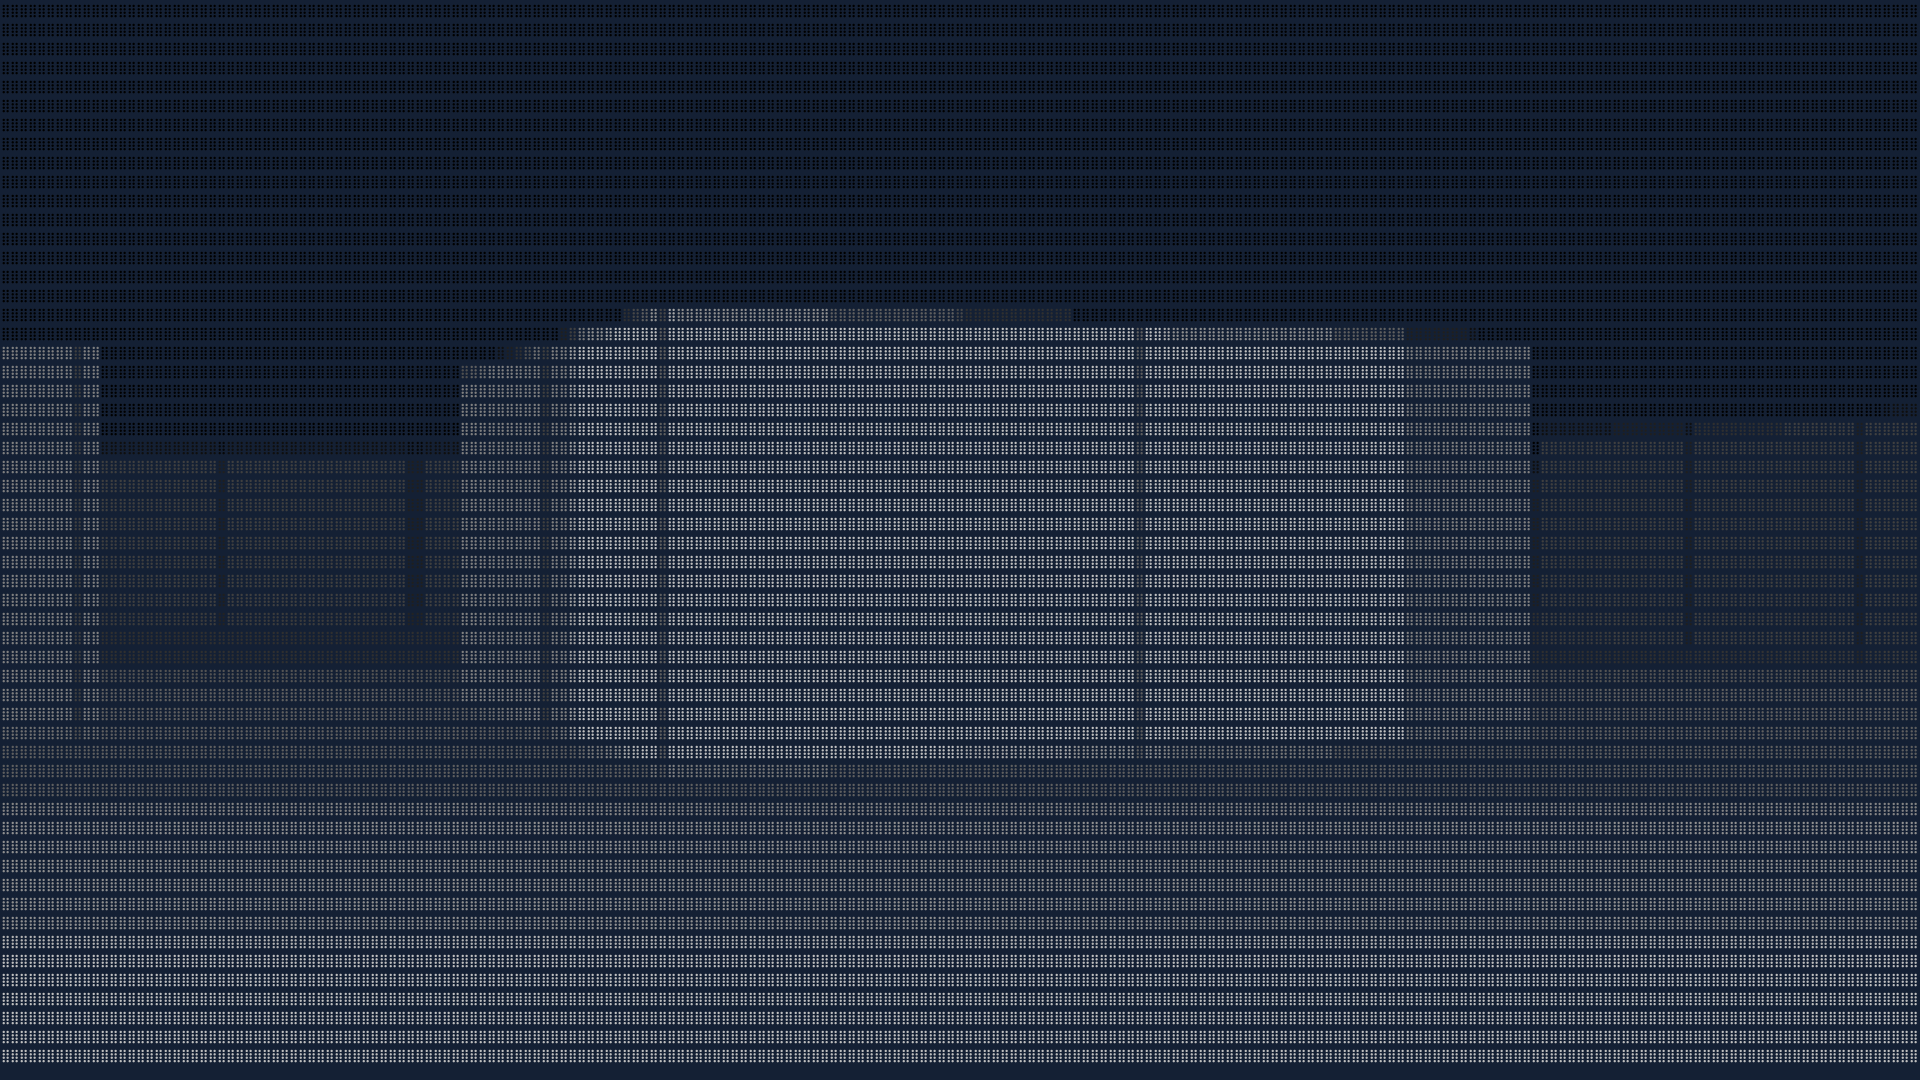
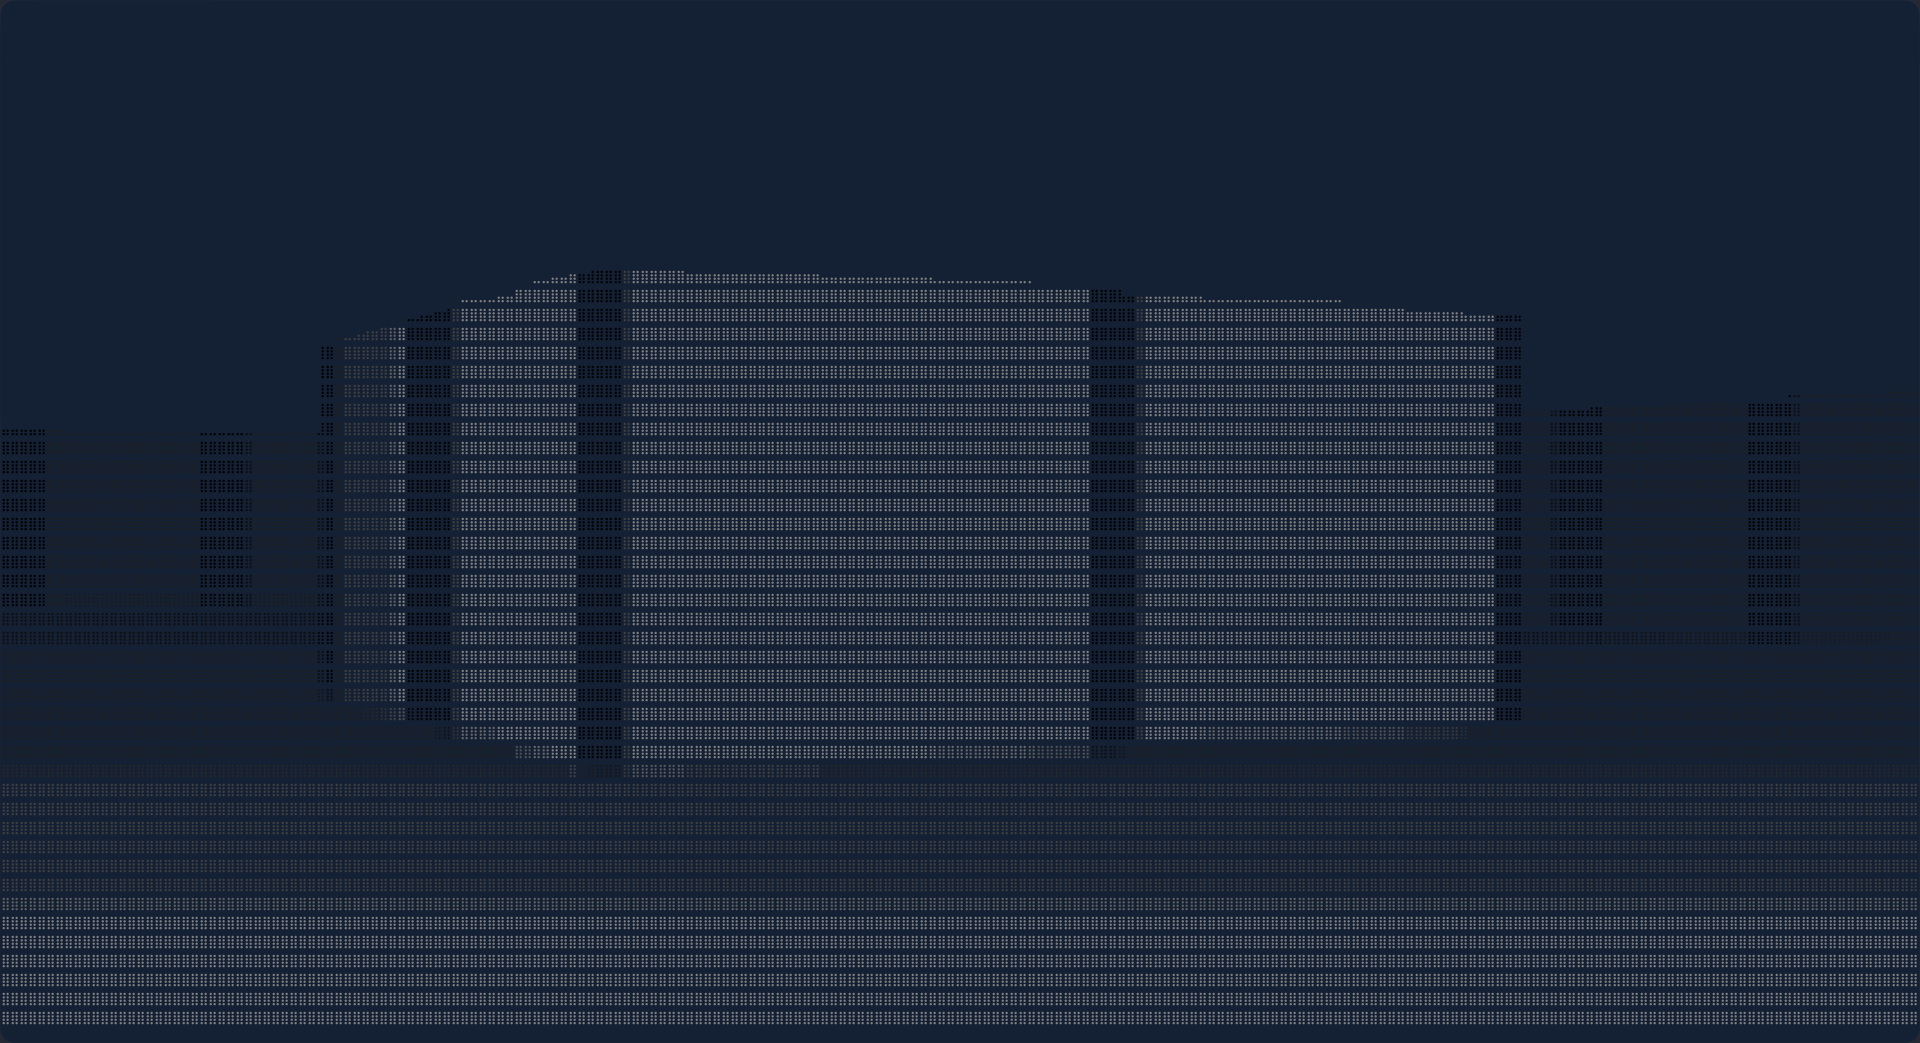
Ported functions to use colour

Changed region(s): [[0.0, 0.0, 1.0, 0.9818]]

diff --git a/src/line.c b/src/line.c
@@ -38,7 +38,7 @@ void pluto_swap(int *a, int *b)
     *b = temp;
 }
 float pluto_abs(float i) { return (i < 0) ? -i : i; }
-void pluto_draw_aa_line(pt_t p0, pt_t p1)
+void pluto_draw_aa_line(pt_t p0, pt_t p1, pluto_colour_t colour)
 {
     int steep = pluto_abs(p1.y - p0.y) > pluto_abs(p1.x - p0.x);
 
@@ -67,8 +67,8 @@ void pluto_draw_aa_line(pt_t p0, pt_t p1)
         int x;
         for (x = xpxl0; x <= xpxl1; x++)
         {
-            pluto_set_pix((int)intersect_y, x);
-            pluto_set_pix((int)intersect_y - 1, x);
+            pluto_set_cpix((int)intersect_y, x, colour.r, colour.g, colour.b);
+            pluto_set_cpix((int)intersect_y - 1, x, colour.r, colour.g, colour.b);
             intersect_y += gradient;
         }
     }
@@ -77,18 +77,18 @@ void pluto_draw_aa_line(pt_t p0, pt_t p1)
         int x;
         for (x = xpxl0; x <= xpxl1; x++)
         {
-            pluto_set_pix(x, (int)intersect_y);
-            pluto_set_pix(x, (int)intersect_y - 1);
+            pluto_set_cpix(x, (int)intersect_y, colour.r, colour.g, colour.b);
+            pluto_set_cpix(x, (int)intersect_y - 1, colour.r, colour.g, colour.b);
             intersect_y += gradient;
         }
     }
 }
 
-void pluto_draw_line(pt_t p0, pt_t p1)
+void pluto_draw_line(pt_t p0, pt_t p1, pluto_colour_t colour)
 {
     if (_pluto_canvas.antialias)
     {
-        pluto_draw_aa_line(p0, p1);
+        pluto_draw_aa_line(p0, p1, colour);
         return;
     }
 
@@ -98,7 +98,7 @@ void pluto_draw_line(pt_t p0, pt_t p1)
 
     for (;;)
     {
-        pluto_set_pix(p0.x, p0.y);
+        pluto_set_cpix(p0.x, p0.y, colour.r, colour.g, colour.b);
 
         if (p0.x == p1.x && p0.y == p1.y)
             break;
@@ -119,14 +119,14 @@ void pluto_draw_line(pt_t p0, pt_t p1)
     }
 }
 
-void pluto_draw_ellipse(pt_t p0, int a, int b)
+void pluto_draw_ellipse(pt_t p0, int a, int b, pluto_colour_t colour)
 {
     int wx, wy, t;
     int asq = a * a, bsq = b * b;
     int xa, ya;
 
-    pluto_set_pix(p0.x, p0.y + b);
-    pluto_set_pix(p0.x, p0.y - b);
+    pluto_set_cpix(p0.x, p0.y + b, colour.r, colour.g, colour.b);
+    pluto_set_cpix(p0.x, p0.y - b, colour.r, colour.g, colour.b);
 
     wx = 0;
     wy = b;
@@ -151,14 +151,14 @@ void pluto_draw_ellipse(pt_t p0, int a, int b)
         if (xa >= ya)
             break;
 
-        pluto_set_pix(p0.x + wx, p0.y - wy);
-        pluto_set_pix(p0.x - wx, p0.y - wy);
-        pluto_set_pix(p0.x + wx, p0.y + wy);
-        pluto_set_pix(p0.x - wx, p0.y + wy);
+        pluto_set_cpix(p0.x + wx, p0.y - wy, colour.r, colour.g, colour.b);
+        pluto_set_cpix(p0.x - wx, p0.y - wy, colour.r, colour.g, colour.b);
+        pluto_set_cpix(p0.x + wx, p0.y + wy, colour.r, colour.g, colour.b);
+        pluto_set_cpix(p0.x - wx, p0.y + wy, colour.r, colour.g, colour.b);
     }
 
-    pluto_set_pix(p0.x + a, p0.y);
-    pluto_set_pix(p0.x - a, p0.y);
+    pluto_set_cpix(p0.x + a, p0.y, colour.r, colour.g, colour.b);
+    pluto_set_cpix(p0.x - a, p0.y, colour.r, colour.g, colour.b);
 
     wx = a;
     wy = 0;
@@ -184,9 +184,9 @@ void pluto_draw_ellipse(pt_t p0, int a, int b)
         if (ya > xa)
             break;
 
-        pluto_set_pix(p0.x + wx, p0.y - wy);
-        pluto_set_pix(p0.x - wx, p0.y - wy);
-        pluto_set_pix(p0.x + wx, p0.y + wy);
-        pluto_set_pix(p0.x - wx, p0.y + wy);
+        pluto_set_cpix(p0.x + wx, p0.y - wy, colour.r, colour.g, colour.b);
+        pluto_set_cpix(p0.x - wx, p0.y - wy, colour.r, colour.g, colour.b);
+        pluto_set_cpix(p0.x + wx, p0.y + wy, colour.r, colour.g, colour.b);
+        pluto_set_cpix(p0.x - wx, p0.y + wy, colour.r, colour.g, colour.b);
     }
 }

diff --git a/src/drw.c b/src/drw.c
@@ -56,26 +56,30 @@ void pluto_transform_ucp(uchar *ret, uint16_t unichr)
 
 void pluto_set_pix(int x, int y)
 {
-    if (x < 0 || x >= _pluto_canvas.cwidth || y < 0 || y >= _pluto_canvas.cheight) return;
+    if (x < 0 || x >= _pluto_canvas.cwidth || y < 0 || y >= _pluto_canvas.cheight)
+        return;
     _pluto_canvas.bitmap[(y >> 2) * _pluto_canvas.width + (x >> 1)] |= _pluto_pixmap[y % 4][x % 2];
 }
 
 void pluto_set_pix_colour(int x, int y, uint8_t red, uint8_t green, uint8_t blue)
 {
-    if (x < 0 || x >= _pluto_canvas.cwidth || y < 0 || y >= _pluto_canvas.cheight) return;
+    if (x < 0 || x >= _pluto_canvas.cwidth || y < 0 || y >= _pluto_canvas.cheight)
+        return;
     _pluto_canvas.pix_colour[y * (_pluto_canvas.width << 1) + x] = (pluto_colour_t){red, green, blue};
 }
 
 void pluto_set_cpix(int x, int y, uint8_t red, uint8_t green, uint8_t blue)
 {
-    if (x < 0 || x >= _pluto_canvas.cwidth || y < 0 || y >= _pluto_canvas.cheight) return;
+    if (x < 0 || x >= _pluto_canvas.cwidth || y < 0 || y >= _pluto_canvas.cheight)
+        return;
     pluto_set_pix(x, y);
     pluto_set_pix_colour(x, y, red, green, blue);
 }
 
 void pluto_unset_pix(int x, int y)
 {
-    if (x < 0 || x >= _pluto_canvas.cwidth || y < 0 || y >= _pluto_canvas.cheight) return;
+    if (x < 0 || x >= _pluto_canvas.cwidth || y < 0 || y >= _pluto_canvas.cheight)
+        return;
     _pluto_canvas.bitmap[(y >> 2) * _pluto_canvas.width + (x >> 1)] &= ~_pluto_pixmap[y % 4][x % 2];
 }
 
@@ -105,14 +109,17 @@ void pluto_write_out()
             }
         }
 
-        if (bl) {
+        if (bl)
+        {
             tr /= bl;
             tg /= bl;
             tb /= bl;
-        } else {
+        }
+        else
+        {
             tr = 255, tg = 255, tb = 255;
         }
-        
+
         sprintf(buf, "\e[38;2;%03u;%03u;%03um", (uint8_t)tr, (uint8_t)tg, (uint8_t)tb);
         strcpy((char *)&_pluto_canvas.buffer[i * 24], buf);
         pluto_transform_ucp(&_pluto_canvas.buffer[i * 24 + 19], PLUTO_PIX_CHAR_OFF + _pluto_canvas.bitmap[i]);
@@ -127,7 +134,7 @@ void pluto_render()
     fflush(stdout);
 }
 
-void pluto_blank()
+void pluto_clear_buffers()
 {
     memset(_pluto_canvas.bitmap, 0, _pluto_canvas.bmsize);
     memset(_pluto_canvas.buffer, 0, _pluto_canvas.bufsize);
@@ -135,6 +142,6 @@ void pluto_blank()
 }
 void pluto_clear()
 {
-    pluto_blank();
+    pluto_clear_buffers();
     printf("\e[H\e[2J\e[3J");
 }

diff --git a/src/raster.c b/src/raster.c
@@ -30,7 +30,7 @@ OF THIS SOFTWARE, EVEN IF ADVISED OF THE POSSIBILITY OF SUCH DAMAGE.*/
 
 #include "pluto.h"
 
-void pluto_rast_bftri(pt_t p0, pt_t p1, pt_t p2)
+void pluto_rast_bftri(pt_t p0, pt_t p1, pt_t p2, pluto_colour_t colour)
 {
     float invslope0 = (float)(p1.x - p0.x) / (p1.y - p0.y);
     float invslope1 = (float)(p2.x - p0.x) / (p2.y - p0.y);
@@ -39,13 +39,13 @@ void pluto_rast_bftri(pt_t p0, pt_t p1, pt_t p2)
 
     for (int sy = p0.y; sy <= p1.y; sy++)
     {
-        pluto_draw_line((pt_t){(int)curx0, sy}, (pt_t){(int)curx1, sy});
+        pluto_draw_line((pt_t){(int)curx0, sy}, (pt_t){(int)curx1, sy}, colour);
         curx0 += invslope0;
         curx1 += invslope1;
     }
 }
 
-void pluto_rast_tftri(pt_t p0, pt_t p1, pt_t p2)
+void pluto_rast_tftri(pt_t p0, pt_t p1, pt_t p2, pluto_colour_t colour)
 {
     float invslope0 = (float)(p2.x - p0.x) / (p2.y - p0.y);
     float invslope1 = (float)(p2.x - p1.x) / (p2.y - p1.y);
@@ -54,25 +54,25 @@ void pluto_rast_tftri(pt_t p0, pt_t p1, pt_t p2)
 
     for (int sy = p2.y; sy > p0.y; sy--)
     {
-        pluto_draw_line((pt_t){(int)curx0, sy}, (pt_t){(int)curx1, sy});
+        pluto_draw_line((pt_t){(int)curx0, sy}, (pt_t){(int)curx1, sy}, colour);
         curx0 -= invslope0;
         curx1 -= invslope1;
     }
 }
 
-void pluto_rast_tri(pt_t p0, pt_t p1, pt_t p2)
+void pluto_rast_tri(pt_t p0, pt_t p1, pt_t p2, pluto_colour_t colour)
 {
 
     if (p1.y == p2.y)
-        pluto_rast_bftri(p0, p1, p2);
+        pluto_rast_bftri(p0, p1, p2, colour);
 
     else if (p0.y == p1.y)
-        pluto_rast_tftri(p0, p1, p2);
+        pluto_rast_tftri(p0, p1, p2, colour);
 
     else
     {
         pt_t p3 = {(int)(p0.x + ((float)(p1.y - p0.y) / (float)(p2.y - p0.y)) * (p2.x - p0.x)), p1.y};
-        pluto_rast_bftri(p0, p1, p3);
-        pluto_rast_tftri(p1, p3, p2);
+        pluto_rast_bftri(p0, p1, p3, colour);
+        pluto_rast_tftri(p1, p3, p2, colour);
     }
 }

diff --git a/src/pluto.h b/src/pluto.h
@@ -61,7 +61,7 @@ typedef struct
 /* Origin: (0x, 0y) */
 
 #ifndef PLUTO_PIX_CHAR_OFF
-#    define PLUTO_PIX_CHAR_OFF /* VSCode keeps complaining lol, so this is the fix */
+#    define PLUTO_PIX_CHAR_OFF /* Editor fix */
 #endif
 
 extern pluto_lib_t _pluto_canvas;
@@ -78,7 +78,7 @@ extern void pluto_render();
 extern void pluto_clear();
 /* Clear both buffers and the screen */
 
-extern void pluto_blank();
+extern void pluto_clear_buffers();
 /* Clear both buffers only */
 
 extern void pluto_deinit();
@@ -115,31 +115,31 @@ extern void pluto_unset_pix(int x, int y);
 extern void pluto_write_out();
 /* Write bitmap buffer to UTF-8 buffer */
 
-extern void pluto_draw_line(pt_t p0, pt_t p1);
+extern void pluto_draw_line(pt_t p0, pt_t p1, pluto_colour_t colour);
 /* Draw a line in the bitmap buffer from p0 to p1 */
 
-extern void pluto_rast_bftri(pt_t p0, pt_t p1, pt_t p2);
+extern void pluto_rast_bftri(pt_t p0, pt_t p1, pt_t p2, pluto_colour_t colour);
 /* Rasterize a bottom-flat triangle:
  * 	- pt_t p0: highest point 
  * 	- pt_t p0: lower point 
  * 	- pt_t p0 lowest point
  */
 
-extern void pluto_rast_tftri(pt_t p0, pt_t p1, pt_t p2);
+extern void pluto_rast_tftri(pt_t p0, pt_t p1, pt_t p2, pluto_colour_t colour);
 /* Rasterize a top-flat triangle:
  * 	- pt_t p0: highest point 
  * 	- pt_t p0: lower point 
  * 	- pt_t p0 lowest point
  */
 
-extern void pluto_rast_tri(pt_t p0, pt_t p1, pt_t p2);
+extern void pluto_rast_tri(pt_t p0, pt_t p1, pt_t p2, pluto_colour_t colour);
 /* Rasterize any triangle:
  * 	- pt_t p0: highest point 
  * 	- pt_t p0: lower point 
  * 	- pt_t p0 lowest point
  */
 
-extern void pluto_draw_ellipse(pt_t p0, int a, int b);
+extern void pluto_draw_ellipse(pt_t p0, int a, int b, pluto_colour_t colour);
 /* Draw an ellipse
  * 	- pt_t p0: centre
  * 	- int a: a offset

diff --git a/examples/program.c b/examples/program.c
@@ -4,11 +4,11 @@
 
 int main()
 {
-    pluto_init_window(true);                    // Initializes pluto w/ anti-aliasing
-    pluto_draw_line((pt_t){5, 25}, (pt_t){70, 65}); // Draws a line from (5x, 10y) to (20x, 25y)
-    pluto_write_out();                              // Writes bitmap to UTF-8 buffer
-    pluto_render();                            // Writes the UTF-8 buffer to STDOUT
-    pluto_deinit();                                 // De-initializes pluto
+    pluto_init_window(true);                                                        // Initializes pluto w/ anti-aliasing
+    pluto_draw_line((pt_t){5, 25}, (pt_t){70, 65}, (pluto_colour_t){94, 129, 172}); // Draws a line from (5x, 10y) to (20x, 25y)
+    pluto_write_out();                                                              // Writes bitmap to UTF-8 buffer
+    pluto_render();                                                                 // Writes the UTF-8 buffer to STDOUT
+    pluto_deinit();                                                                 // De-initializes pluto
 
     return 0;
 }

diff --git a/examples/pendulum.math.c b/examples/pendulum.math.c
@@ -11,7 +11,7 @@ int main()
     for (int y = 0; y < _pluto_canvas.cheight / 2; y++)
     {
         int xb = (int)(4 * M_PI * M_PI * y / 9.8);
-        pluto_draw_line((pt_t){xb, _pluto_canvas.cheight - 1}, (pt_t){xb, _pluto_canvas.cheight - 1 - y});
+        pluto_draw_line((pt_t){xb, _pluto_canvas.cheight - 1}, (pt_t){xb, _pluto_canvas.cheight - 1 - y}, (pluto_colour_t){94, 129, 172});
 
         pluto_write_out();
         pluto_render();

diff --git a/examples/raster.c b/examples/raster.c
@@ -3,7 +3,12 @@
 int main()
 {
     pluto_init_window(true);
-    pluto_rast_tri((pt_t){40, 20}, (pt_t){80, 40}, (pt_t){20, 80});
+
+    for (int i = 0; i < 6; i++)
+    {
+        pluto_rast_tri((pt_t){i << i, i >> i}, (pt_t){i << i, i << i}, (pt_t){i >> i, i << i}, (pluto_colour_t){94, 129, 172});
+    }
+
     pluto_write_out();
     pluto_render();
     pluto_deinit();

diff --git a/src/window.c b/src/window.c
@@ -56,7 +56,7 @@ void pluto_init_window(bool antialias)
     _pluto_canvas.bitmap = (uchar *)malloc(_pluto_canvas.bmsize);
     _pluto_canvas.pix_colour = (pluto_colour_t *)malloc(_pluto_canvas.bmsize * sizeof(pluto_colour_t) * 8);
 
-    pluto_blank();
+    pluto_clear_buffers();
 
     _pluto_canvas.antialias = antialias;
     _pluto_canvas.is_init = true;

diff --git a/examples/mandelbrot.c b/examples/mandelbrot.c
@@ -23,7 +23,8 @@ void create_mandelbrot()
                 x = x_new;
                 iter++;
             }
-            if (iter >= maxi) {
+            if (iter >= maxi)
+            {
                 pluto_set_cpix(col, row, (int)(x * c_re * 2048), (int)(y * c_im * 4096), iter + maxi * x * col * row);
             }
         }
